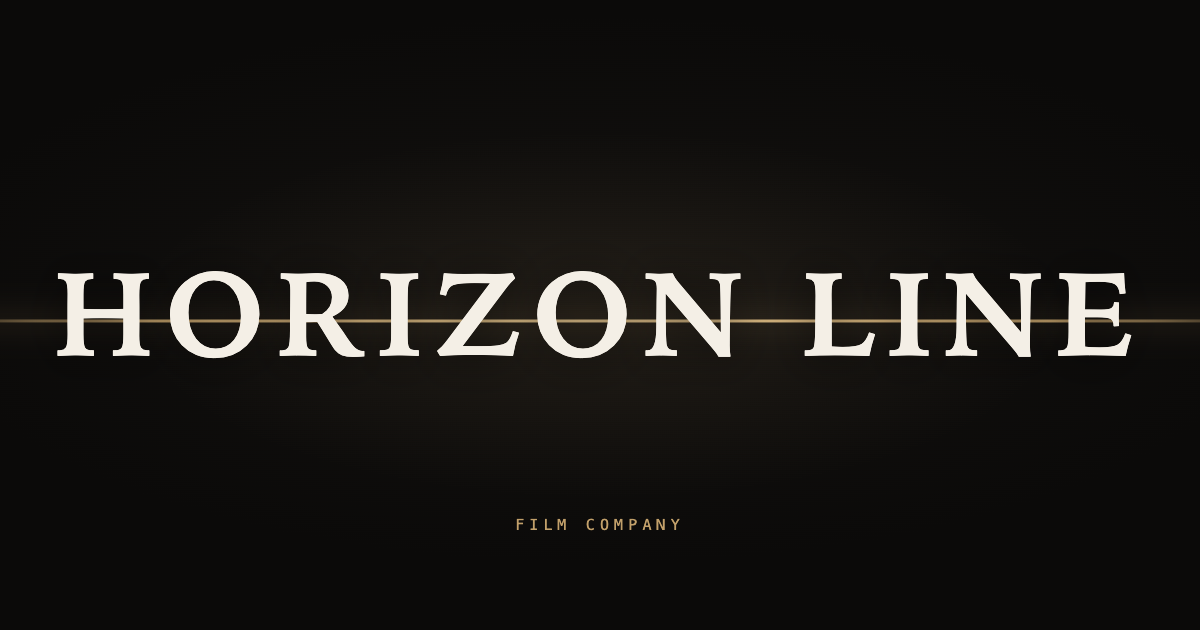
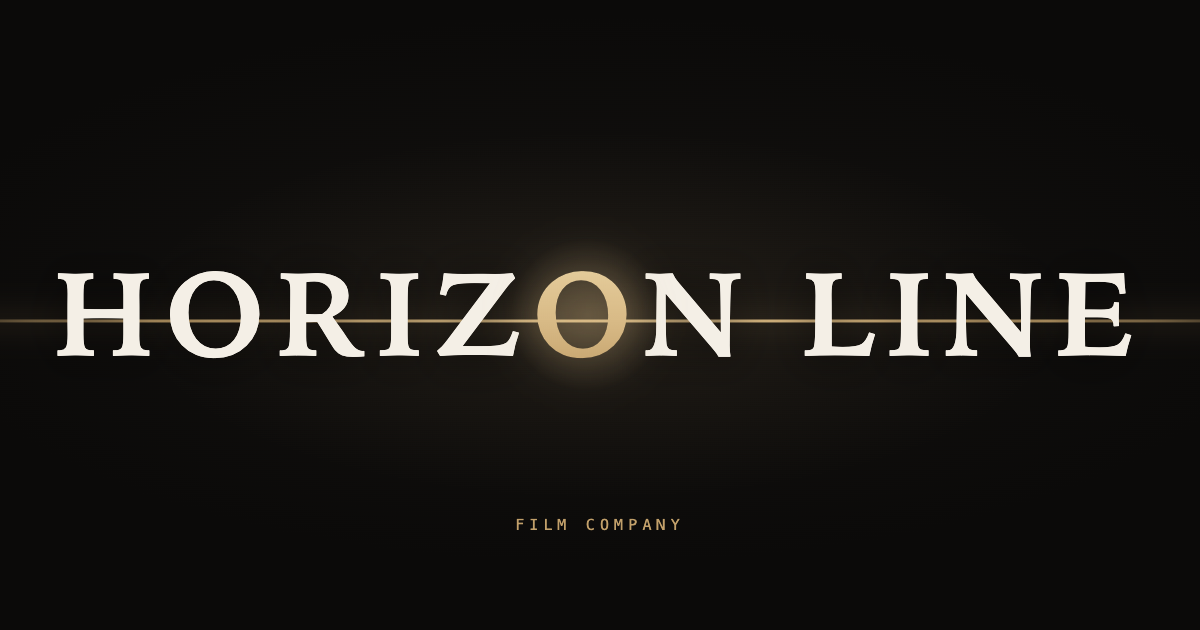
feat: sun-O hero — the O in HORIZON is the sun on the horizon line
- Second O of HORIZON set in gold gradient with soft halo, sitting on the line
- Line now spreads outward FROM the O (transform-origin + gradient peak
  anchored to the O's measured center via --sunx)
- Sunrise sequence: O rises from below the horizon and ignites (.25s), line
  spreads from it (.35s), the rest of the name materializes around it (1.05s)
- Favicon v2: sun-disc-on-horizon mark; OG card updated to match
- Reduced-motion: static end state, no glint/halo animation

Claude-Session: https://claude.ai/code/session_01FaizRmjrefzSHTgoq5FFSf

Changed region(s): [[0.4317, 0.3921, 0.555, 0.6032]]

diff --git a/index.html b/index.html
@@ -66,13 +66,22 @@
       display:flex;flex-direction:column;align-items:center;text-align:center}
   .lockup{position:relative;display:inline-block}
   .wordmark{position:relative;z-index:4;font-family:var(--serif);font-weight:600;text-transform:uppercase;letter-spacing:.1em;white-space:nowrap;
-      font-size:clamp(30px,9vw,120px);line-height:1;color:#f4efe6;text-shadow:0 2px 46px rgba(0,0,0,.6);
-      opacity:0;animation:wmark 1.1s cubic-bezier(.16,1,.3,1) .9s forwards}
+      font-size:clamp(30px,9vw,120px);line-height:1;color:#f4efe6;text-shadow:0 2px 46px rgba(0,0,0,.6)}
+  .wm-l{opacity:0;display:inline-block;animation:wmark 1.1s cubic-bezier(.16,1,.3,1) 1.05s forwards}
   @keyframes wmark{from{opacity:0;transform:translateY(16px)}to{opacity:1;transform:none}}
-  .horizon-rule{position:absolute;top:55%;left:50%;width:100vw;height:2px;z-index:3;transform-origin:center;
+  .o-sun{position:relative;display:inline-block;text-shadow:none;color:transparent;
+      background:linear-gradient(#e9d2a2,var(--brass-bright) 55%,var(--brass));-webkit-background-clip:text;background-clip:text;
+      filter:drop-shadow(0 0 22px rgba(216,186,134,.38));
+      opacity:0;transform:translateY(.3em);animation:osun 1.5s cubic-bezier(.16,1,.3,1) .25s forwards}
+  @keyframes osun{from{opacity:0;transform:translateY(.3em)}to{opacity:1;transform:none}}
+  .o-sun::before{content:"";position:absolute;inset:-22%;z-index:-1;border-radius:50%;
+      background:radial-gradient(circle,rgba(216,186,134,.22),transparent 66%);
+      opacity:0;animation:halo 1.6s ease 1.5s forwards}
+  @keyframes halo{to{opacity:1}}
+  .horizon-rule{position:absolute;top:55%;left:50%;width:100vw;height:2px;z-index:3;transform-origin:var(--sunx,50%) center;
       transform:translate(-50%,-50%) scaleX(0);
-      background:linear-gradient(90deg,transparent,var(--brass) 18%,var(--brass-bright) 50%,var(--brass) 82%,transparent);
-      box-shadow:0 0 22px 0 rgba(194,160,106,.32);animation:hrule 1.2s cubic-bezier(.16,1,.3,1) .2s forwards}
+      background:linear-gradient(90deg,transparent,var(--brass) calc(var(--sunx,50vw) - 32vw),var(--brass-bright) var(--sunx,50vw),var(--brass) calc(var(--sunx,50vw) + 32vw),transparent);
+      box-shadow:0 0 22px 0 rgba(194,160,106,.32);animation:hrule 1.2s cubic-bezier(.16,1,.3,1) .35s forwards}
   @keyframes hrule{
     0%{transform:translate(-50%,-50%) scaleX(0);box-shadow:0 0 40px 2px rgba(194,160,106,.55)}
     70%{box-shadow:0 0 40px 2px rgba(194,160,106,.55)}
@@ -236,7 +245,9 @@
   @media(prefers-reduced-motion:reduce){
     .horizon-rule{animation:none;transform:translate(-50%,-50%) scaleX(1)}
     .horizon-rule::after{animation:none;opacity:0}
-    .wordmark{animation:none;opacity:1;transform:none}
+    .wm-l{animation:none;opacity:1;transform:none}
+    .o-sun{animation:none;opacity:1;transform:none}
+    .o-sun::before{animation:none;opacity:1}
     .fade{opacity:1;transform:none;transition:none}
     html{scroll-behavior:auto}
   }
@@ -260,7 +271,7 @@
   <div class="grain"></div>
   <div class="hero-in">
     <div class="lockup">
-      <h1 class="wordmark">Horizon Line</h1>
+      <h1 class="wordmark"><span class="wm-l">Horiz</span><span class="o-sun">o</span><span class="wm-l">n Line</span></h1>
       <div class="horizon-rule"></div>
     </div>
     <p class="hc-lead">A company that develops finances produces feature films and television series</p>
@@ -583,5 +594,11 @@
       es.forEach(function(e){ if(e.isIntersecting){ e.target.classList.add('in'); io.unobserve(e.target); } });
     },{threshold:.1,rootMargin:'0px 0px -6% 0px'});
     document.querySelectorAll('.fade').forEach(function(el){io.observe(el)});
+    var o=document.querySelector('.o-sun'),rule=document.querySelector('.horizon-rule'),lk=document.querySelector('.lockup');
+    if(o&&rule&&lk){
+      var lr=lk.getBoundingClientRect(),or=o.getBoundingClientRect();
+      var ruleLeft=lr.left+lr.width/2-window.innerWidth/2;
+      rule.style.setProperty('--sunx',(or.left+or.width/2-ruleLeft)+'px');
+    }
   })();
 </script>

diff --git a/source/hlf-home.tmpl.html b/source/hlf-home.tmpl.html
@@ -66,13 +66,22 @@
       display:flex;flex-direction:column;align-items:center;text-align:center}
   .lockup{position:relative;display:inline-block}
   .wordmark{position:relative;z-index:4;font-family:var(--serif);font-weight:600;text-transform:uppercase;letter-spacing:.1em;white-space:nowrap;
-      font-size:clamp(30px,9vw,120px);line-height:1;color:#f4efe6;text-shadow:0 2px 46px rgba(0,0,0,.6);
-      opacity:0;animation:wmark 1.1s cubic-bezier(.16,1,.3,1) .9s forwards}
+      font-size:clamp(30px,9vw,120px);line-height:1;color:#f4efe6;text-shadow:0 2px 46px rgba(0,0,0,.6)}
+  .wm-l{opacity:0;display:inline-block;animation:wmark 1.1s cubic-bezier(.16,1,.3,1) 1.05s forwards}
   @keyframes wmark{from{opacity:0;transform:translateY(16px)}to{opacity:1;transform:none}}
-  .horizon-rule{position:absolute;top:55%;left:50%;width:100vw;height:2px;z-index:3;transform-origin:center;
+  .o-sun{position:relative;display:inline-block;text-shadow:none;color:transparent;
+      background:linear-gradient(#e9d2a2,var(--brass-bright) 55%,var(--brass));-webkit-background-clip:text;background-clip:text;
+      filter:drop-shadow(0 0 22px rgba(216,186,134,.38));
+      opacity:0;transform:translateY(.3em);animation:osun 1.5s cubic-bezier(.16,1,.3,1) .25s forwards}
+  @keyframes osun{from{opacity:0;transform:translateY(.3em)}to{opacity:1;transform:none}}
+  .o-sun::before{content:"";position:absolute;inset:-22%;z-index:-1;border-radius:50%;
+      background:radial-gradient(circle,rgba(216,186,134,.22),transparent 66%);
+      opacity:0;animation:halo 1.6s ease 1.5s forwards}
+  @keyframes halo{to{opacity:1}}
+  .horizon-rule{position:absolute;top:55%;left:50%;width:100vw;height:2px;z-index:3;transform-origin:var(--sunx,50%) center;
       transform:translate(-50%,-50%) scaleX(0);
-      background:linear-gradient(90deg,transparent,var(--brass) 18%,var(--brass-bright) 50%,var(--brass) 82%,transparent);
-      box-shadow:0 0 22px 0 rgba(194,160,106,.32);animation:hrule 1.2s cubic-bezier(.16,1,.3,1) .2s forwards}
+      background:linear-gradient(90deg,transparent,var(--brass) calc(var(--sunx,50vw) - 32vw),var(--brass-bright) var(--sunx,50vw),var(--brass) calc(var(--sunx,50vw) + 32vw),transparent);
+      box-shadow:0 0 22px 0 rgba(194,160,106,.32);animation:hrule 1.2s cubic-bezier(.16,1,.3,1) .35s forwards}
   @keyframes hrule{
     0%{transform:translate(-50%,-50%) scaleX(0);box-shadow:0 0 40px 2px rgba(194,160,106,.55)}
     70%{box-shadow:0 0 40px 2px rgba(194,160,106,.55)}
@@ -236,7 +245,9 @@
   @media(prefers-reduced-motion:reduce){
     .horizon-rule{animation:none;transform:translate(-50%,-50%) scaleX(1)}
     .horizon-rule::after{animation:none;opacity:0}
-    .wordmark{animation:none;opacity:1;transform:none}
+    .wm-l{animation:none;opacity:1;transform:none}
+    .o-sun{animation:none;opacity:1;transform:none}
+    .o-sun::before{animation:none;opacity:1}
     .fade{opacity:1;transform:none;transition:none}
     html{scroll-behavior:auto}
   }
@@ -260,7 +271,7 @@
   <div class="grain"></div>
   <div class="hero-in">
     <div class="lockup">
-      <h1 class="wordmark">Horizon Line</h1>
+      <h1 class="wordmark"><span class="wm-l">Horiz</span><span class="o-sun">o</span><span class="wm-l">n Line</span></h1>
       <div class="horizon-rule"></div>
     </div>
     <p class="hc-lead">A company that develops finances produces feature films and television series</p>
@@ -583,5 +594,11 @@
       es.forEach(function(e){ if(e.isIntersecting){ e.target.classList.add('in'); io.unobserve(e.target); } });
     },{threshold:.1,rootMargin:'0px 0px -6% 0px'});
     document.querySelectorAll('.fade').forEach(function(el){io.observe(el)});
+    var o=document.querySelector('.o-sun'),rule=document.querySelector('.horizon-rule'),lk=document.querySelector('.lockup');
+    if(o&&rule&&lk){
+      var lr=lk.getBoundingClientRect(),or=o.getBoundingClientRect();
+      var ruleLeft=lr.left+lr.width/2-window.innerWidth/2;
+      rule.style.setProperty('--sunx',(or.left+or.width/2-ruleLeft)+'px');
+    }
   })();
 </script>
